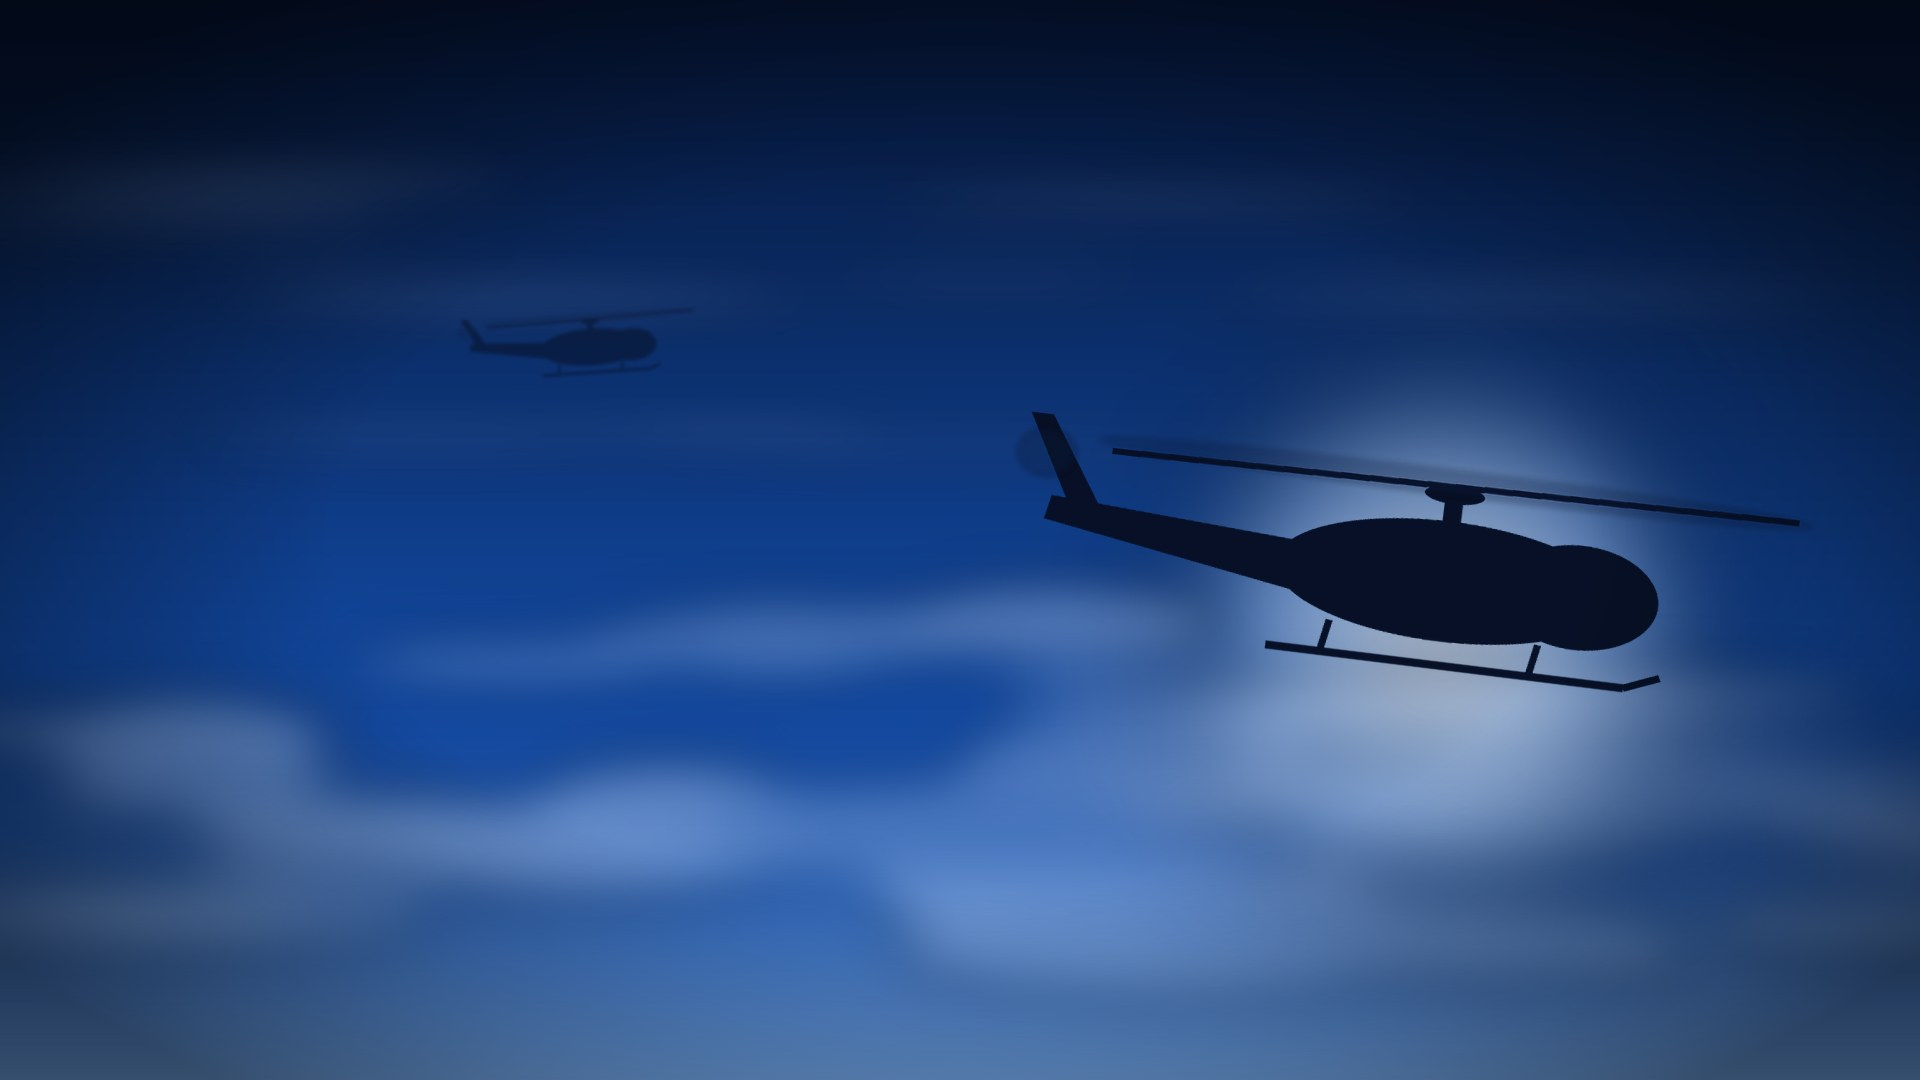
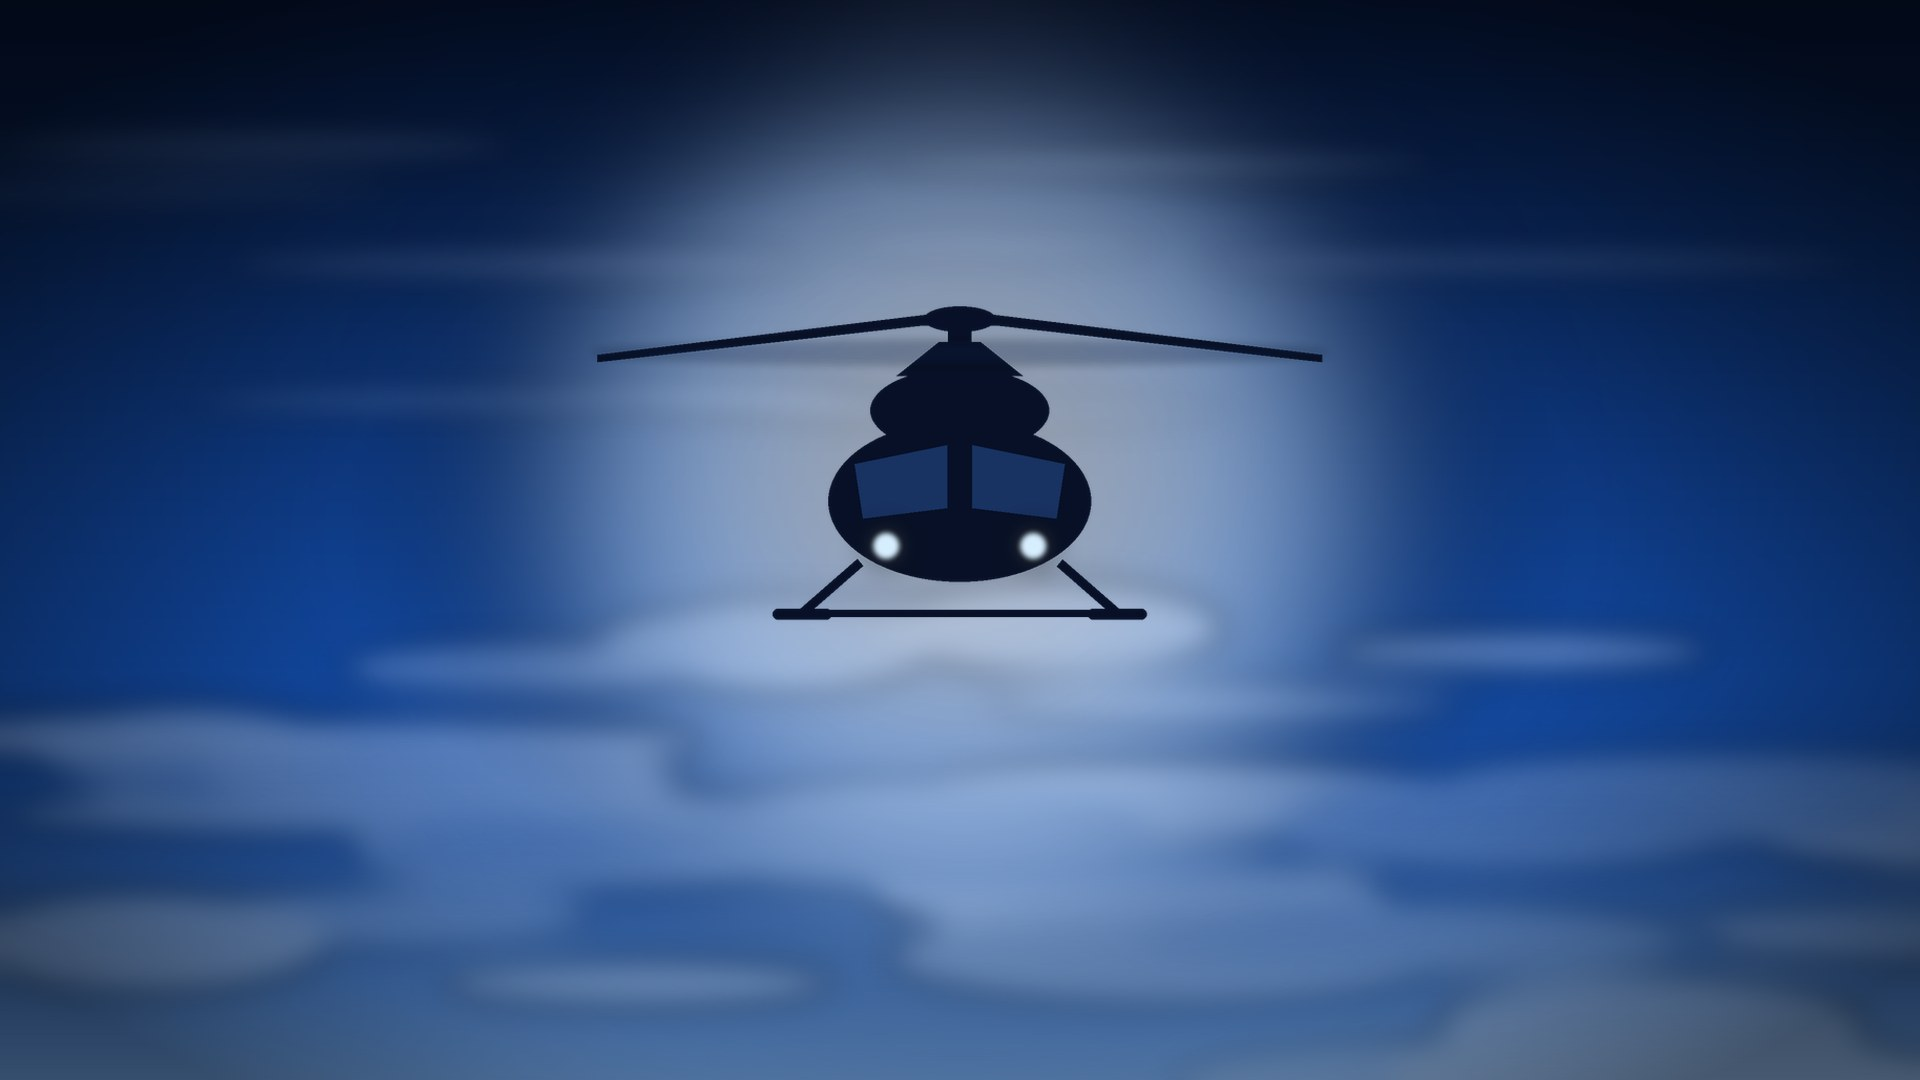
Add files via upload

diff --git a/app.py b/app.py
@@ -8,6 +8,7 @@ from PIL import Image, ImageFilter
 
 APP = "ESAVE Checklist"
 FONDO = next((p for p in ("fondo.jpg", "fondo.jpeg", "fondo.png", "assets/fondo.jpg") if os.path.exists(p)), None)
+FONDO_MOVIL = next((p for p in ("fondo_movil.jpg", "assets/fondo_movil.jpg") if os.path.exists(p)), None)
 ESCUDO = next((p for p in ("escudo.png", "escudo.jpg", "escudo.jpeg", "assets/escudo.png") if os.path.exists(p)), None)
 try:
     _icono = Image.open(ESCUDO) if ESCUDO else "✈"
@@ -524,9 +525,9 @@ def icono_inicio_uri():
 
 
 @st.cache_data
-def fondo_uri():
-    """Foto de fondo del login, desenfocada aquí mismo (sirve con cualquier imagen que pongas en fondo.jpg)."""
-    im = Image.open(FONDO).convert("RGB")
+def fondo_uri(ruta):
+    """Foto de fondo del login, desenfocada aquí mismo (sirve con cualquier imagen que pongas)."""
+    im = Image.open(ruta).convert("RGB")
     im.thumbnail((1280, 1280))
     im = im.filter(ImageFilter.GaussianBlur(5))
     buf = io.BytesIO()
@@ -537,8 +538,12 @@ def fondo_uri():
 def fondo_login():
     if not FONDO:
         return
+    capa = "linear-gradient(rgba(8,20,45,.45),rgba(8,20,45,.68))"
+    movil = (f"@media (max-aspect-ratio:1/1){{.stApp,[data-testid=\"stApp\"]{{background:{capa},url(\"{fondo_uri(FONDO_MOVIL)}\") center/cover no-repeat !important}}}}"
+             if FONDO_MOVIL else "")
     st.markdown(f"""<style>
-    .stApp,[data-testid="stApp"]{{background:linear-gradient(rgba(8,20,45,.45),rgba(8,20,45,.68)),url("{fondo_uri()}") center/cover fixed no-repeat !important}}
+    .stApp,[data-testid="stApp"]{{background:{capa},url("{fondo_uri(FONDO)}") center/cover no-repeat !important}}
+    {movil}
     [data-testid="stForm"]{{background:rgba(14,30,58,.55);backdrop-filter:blur(14px);-webkit-backdrop-filter:blur(14px);border:1px solid rgba(255,255,255,.18);box-shadow:0 12px 40px rgba(0,0,0,.4)}}
     </style>""", unsafe_allow_html=True)
 
@@ -594,7 +599,7 @@ def estilo():
 def encabezado():
     logo = f"<img src='{escudo_uri()}'>" if ESCUDO else "<span style='font-size:52px'>✈</span>"
     st.markdown(f"<div class='esave-head'>{logo}<div><h1>{APP}</h1>"
-                "<p>Escuela de Aviación del Ejército · Asistencia con reconocimiento facial</p></div>"
+                "<p>Escuela de Aviación del Ejército</p></div>"
                 f"<div class='esave-fecha'>📅 {fecha_texto()}</div></div>", unsafe_allow_html=True)
 
 
